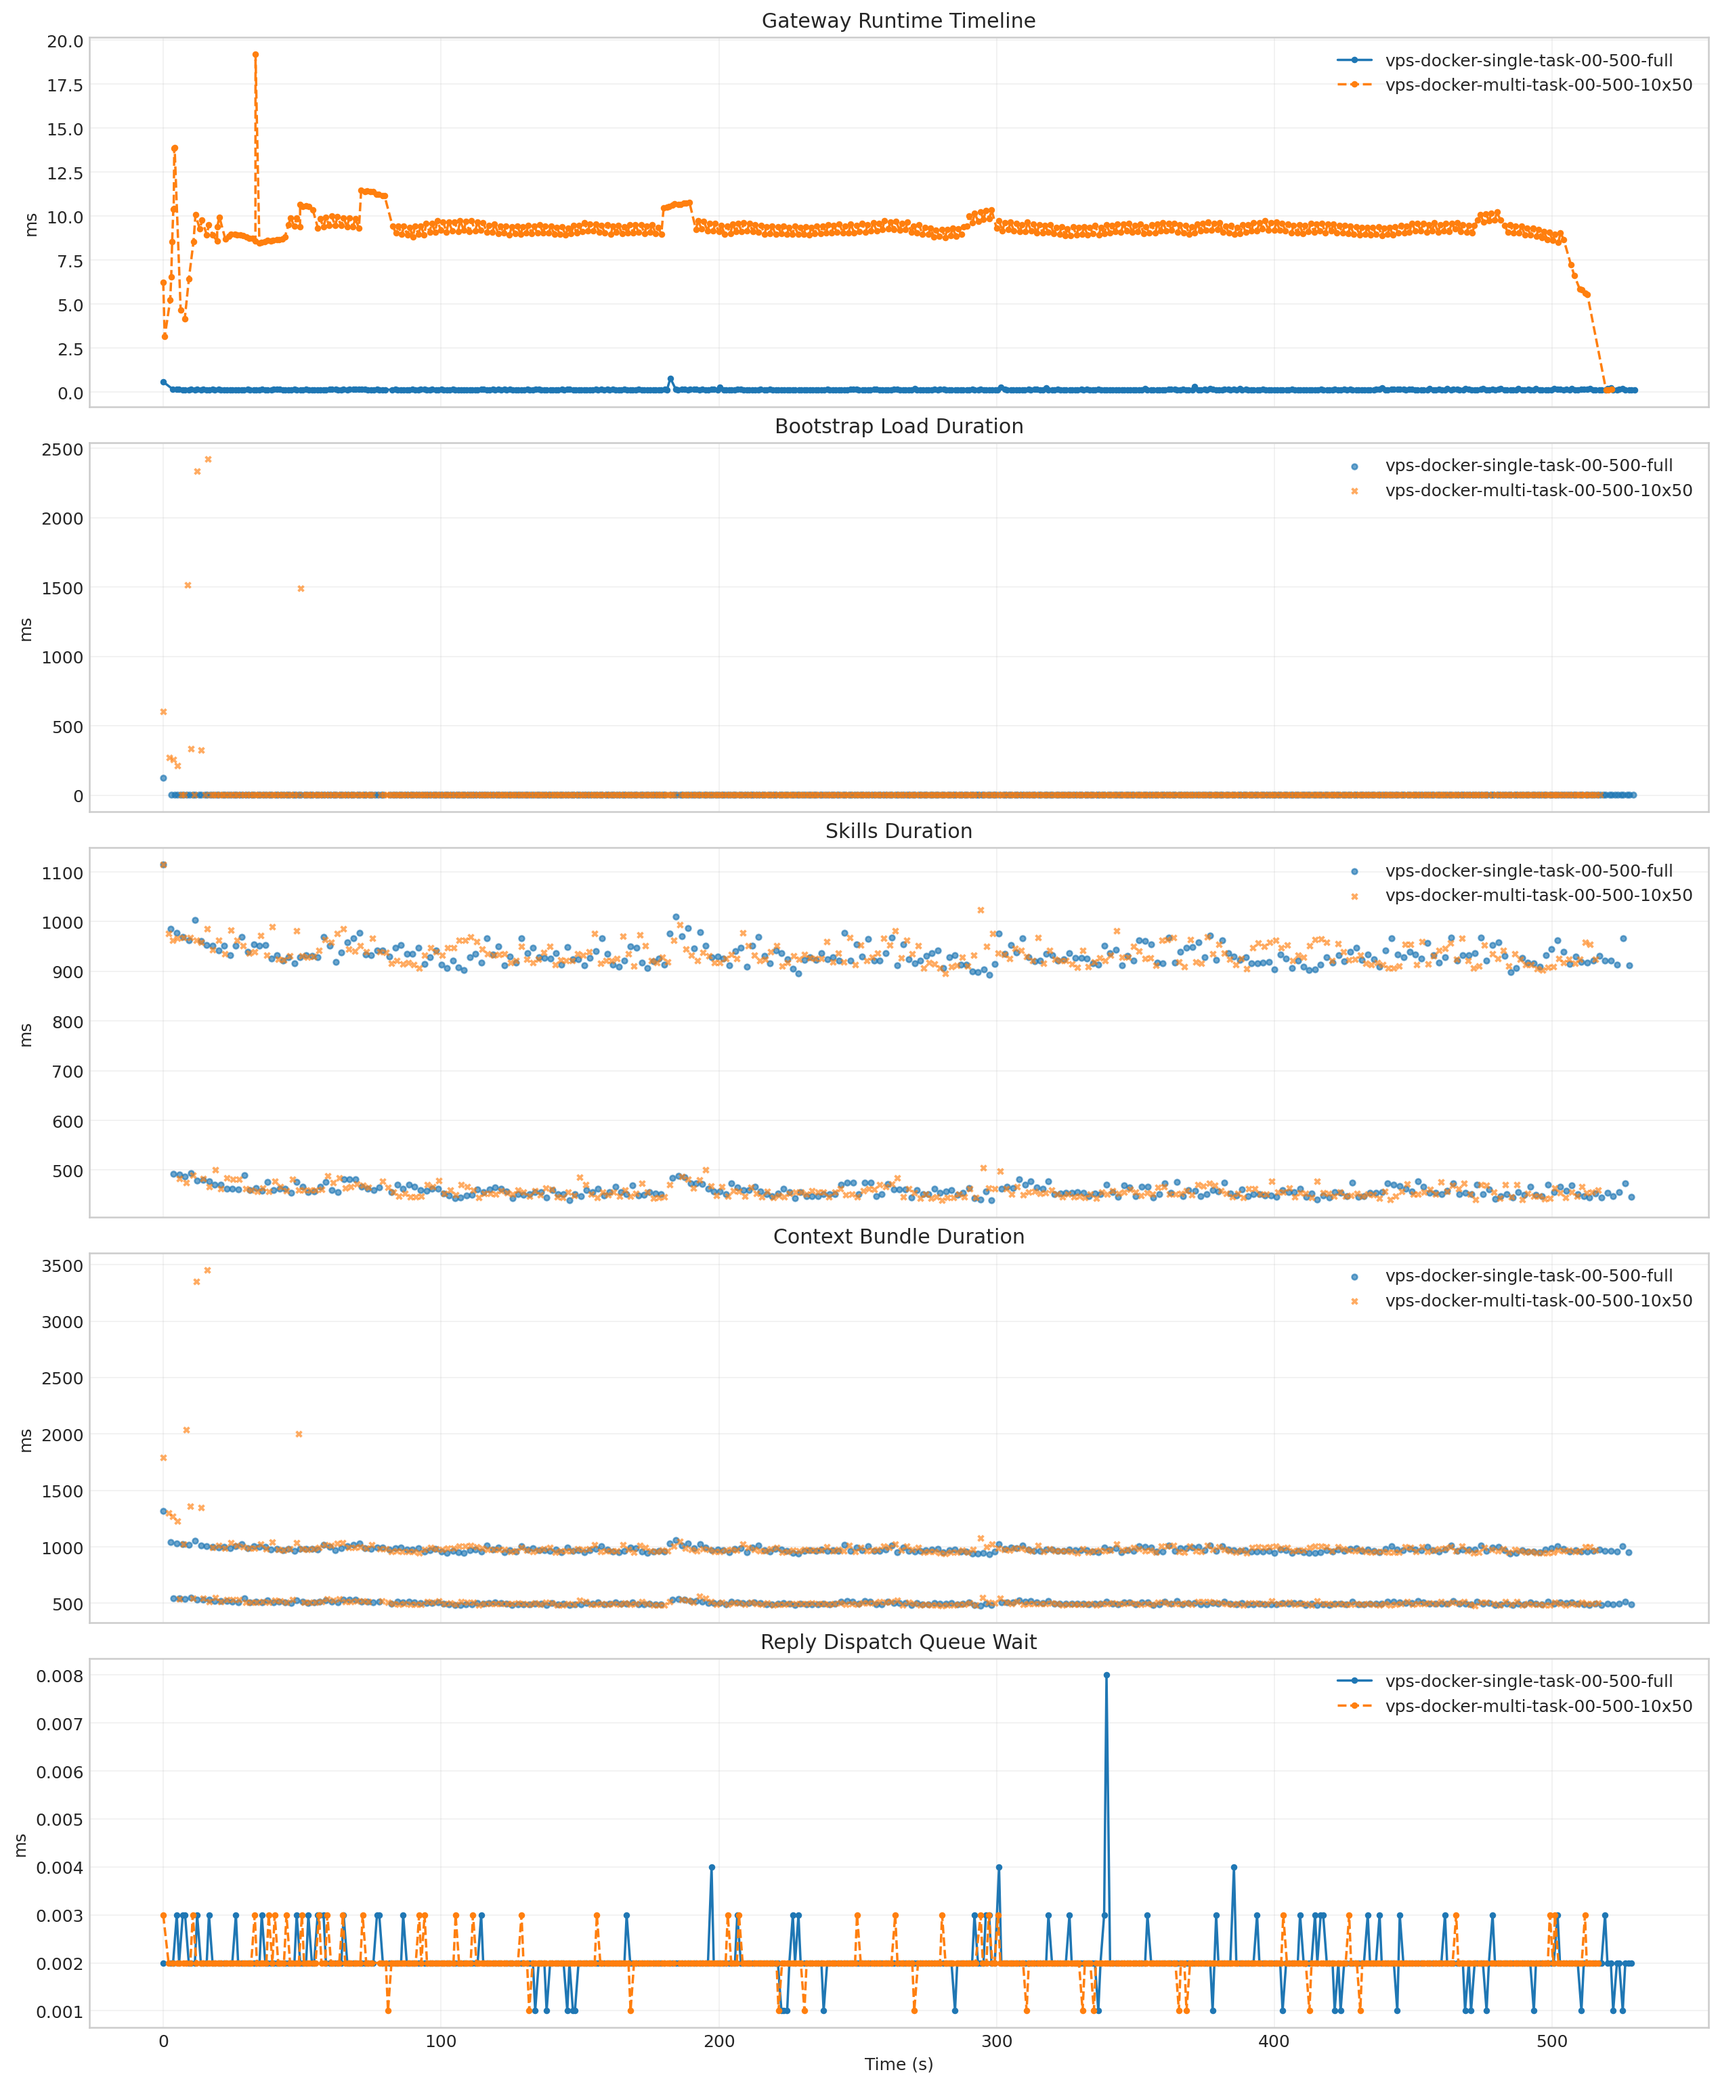
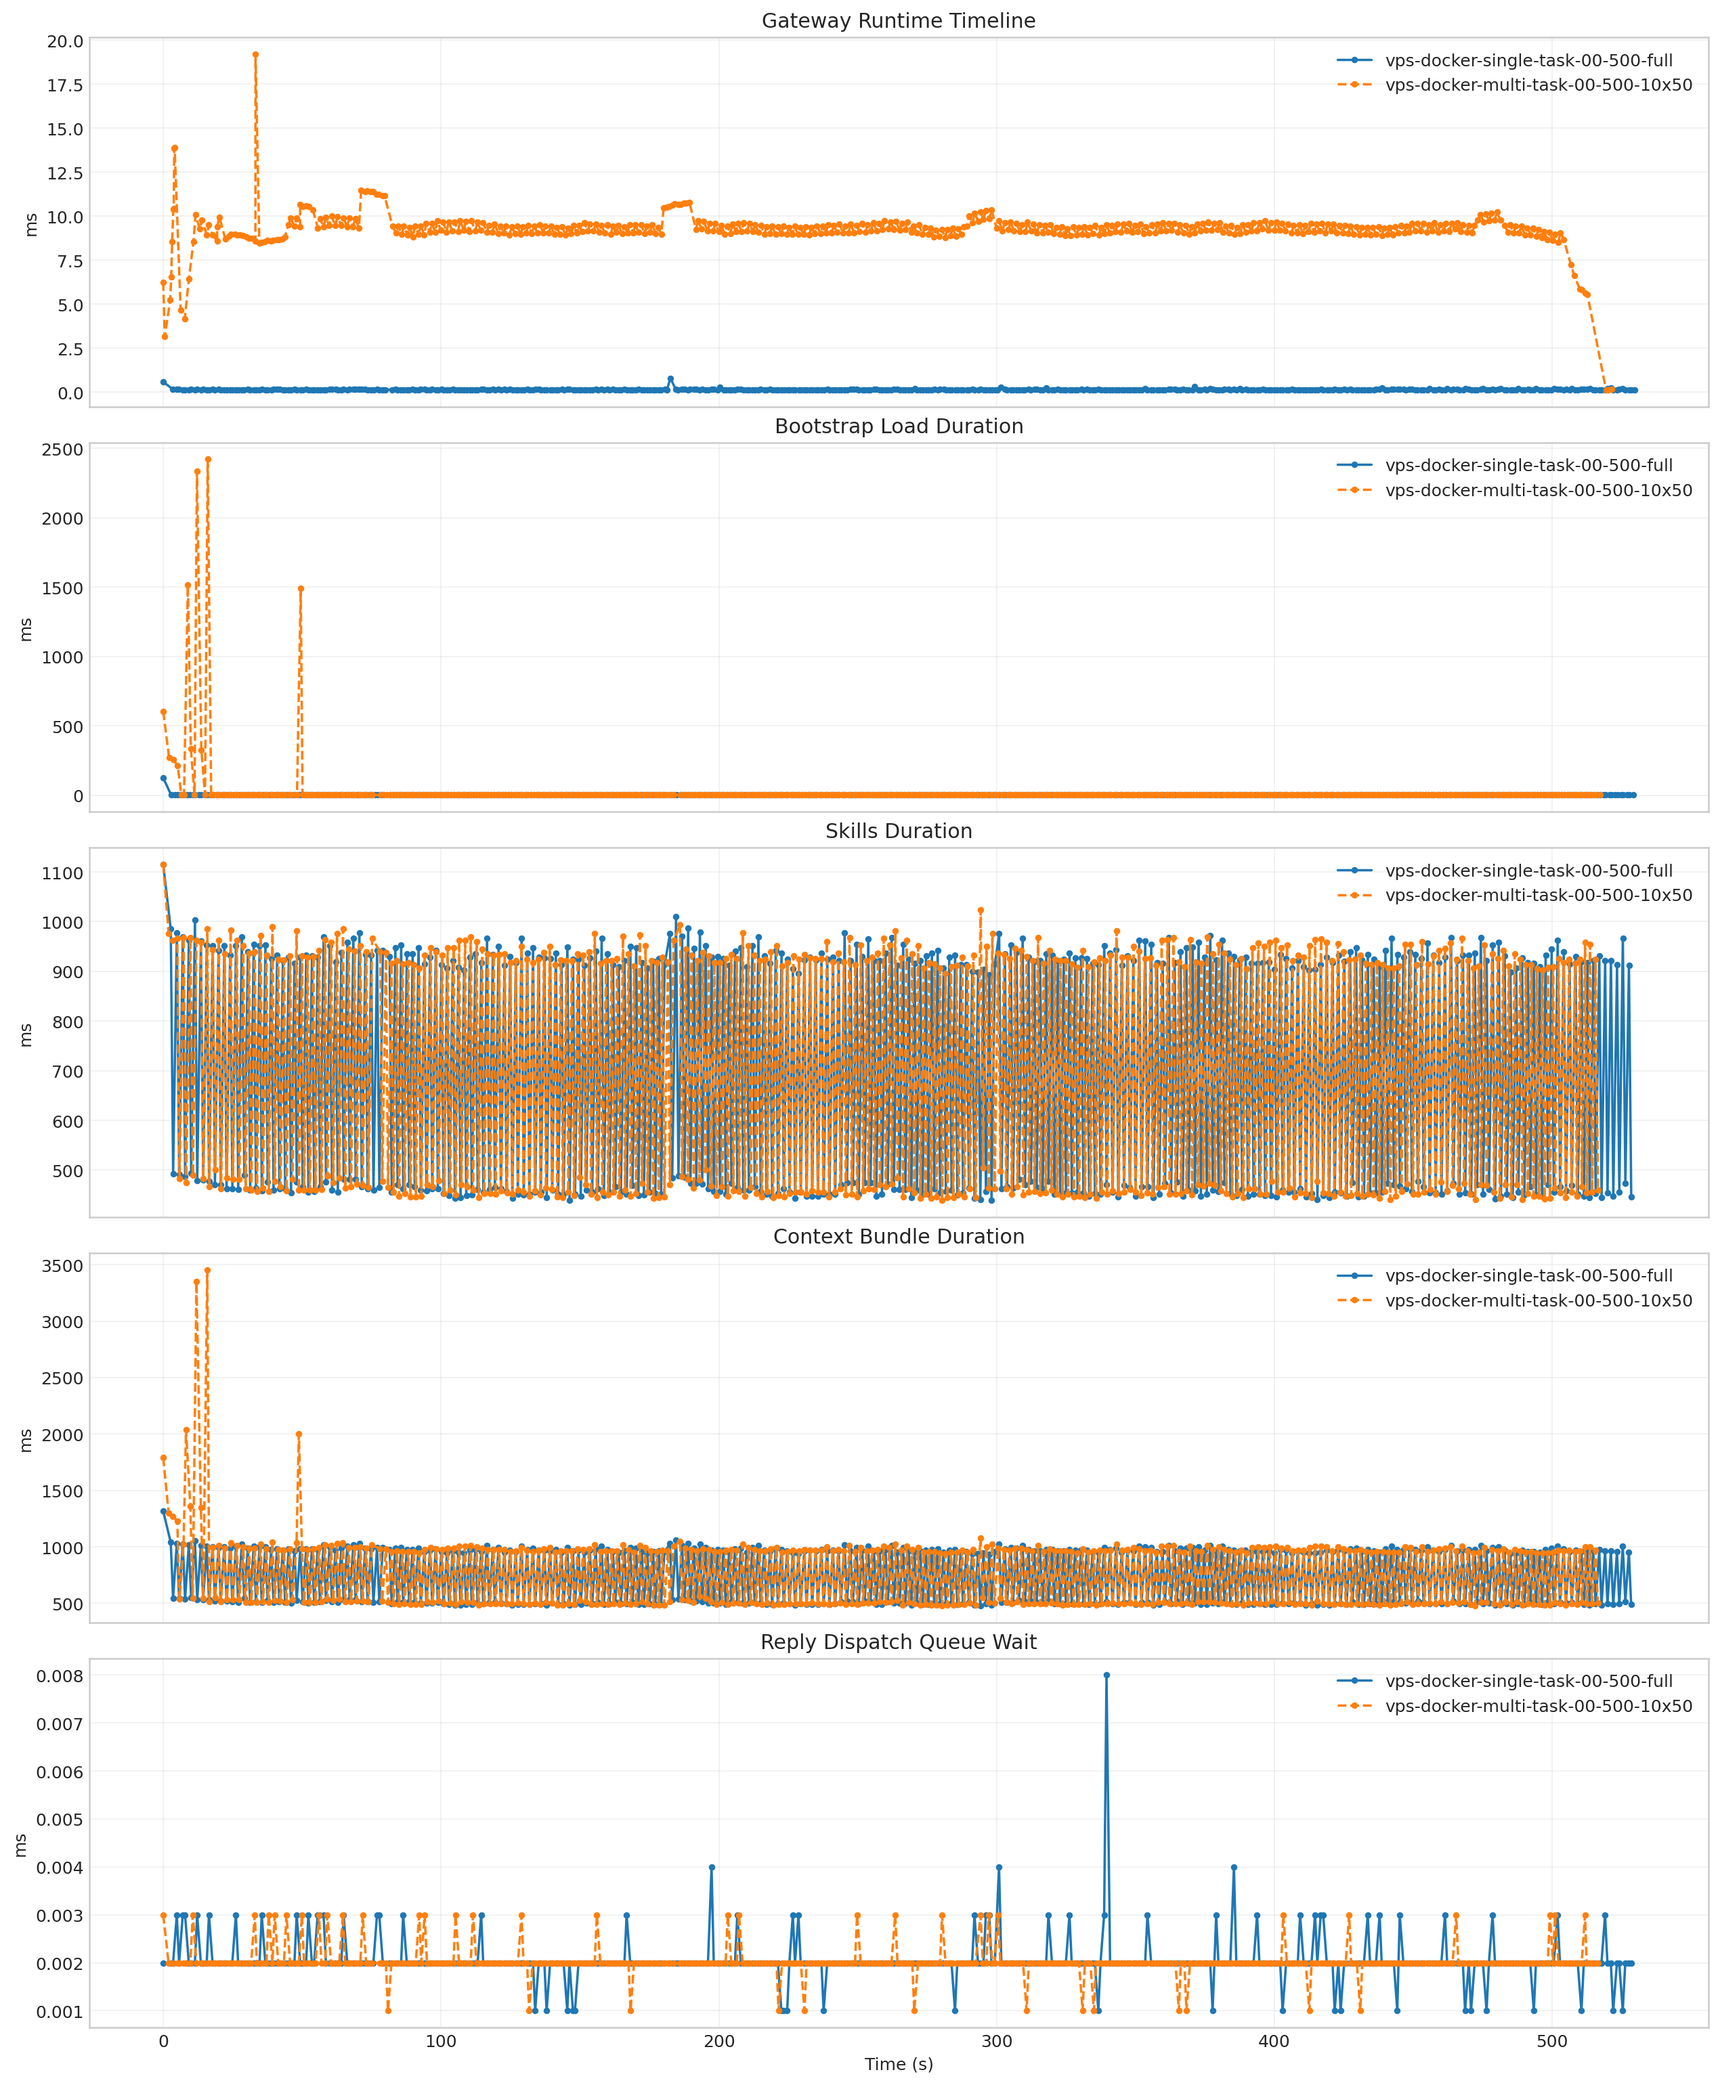
add light version

diff --git a/scripts/export_pair_report.py b/scripts/export_pair_report.py
@@ -714,14 +714,19 @@ def save_dataframe(df: pd.DataFrame, output_path: Path) -> None:
 
 
 def has_dataframe_data(df: pd.DataFrame | None) -> bool:
-    return isinstance(df, pd.DataFrame) and not df.empty and len(df.columns) > 0
+    if not isinstance(df, pd.DataFrame) or df.empty or len(df.columns) == 0:
+        return False
+    numeric_df = df.select_dtypes(include=["number"])
+    return not numeric_df.empty and len(numeric_df.columns) > 0
 
 
 def plot_dataframe(df: pd.DataFrame, title: str, ylabel: str, output_path: Path) -> None:
     if plt is None:
         raise RuntimeError("matplotlib is required to render figures")
+    if not has_dataframe_data(df):
+        return
     fig, ax = plt.subplots(figsize=(10, 5))
-    df.plot(kind="bar", ax=ax, rot=0, title=title)
+    df.select_dtypes(include=["number"]).plot(kind="bar", ax=ax, rot=0, title=title)
     ax.set_ylabel(ylabel)
     ax.set_xlabel("")
     plt.tight_layout()
@@ -1334,21 +1339,18 @@ def build_pair_outputs(
                 {
                     "subtitle": "Bootstrap Load Duration",
                     "ylabel": "ms",
-                    "render_mode": "scatter",
                     "left": time_series_points(left_summary, ["collector_analysis", "gateway_runtime_spans", "time_series", "bootstrap_load_duration_ms"]),
                     "right": time_series_points(right_summary, ["collector_analysis", "gateway_runtime_spans", "time_series", "bootstrap_load_duration_ms"]),
                 },
                 {
                     "subtitle": "Skills Duration",
                     "ylabel": "ms",
-                    "render_mode": "scatter",
                     "left": time_series_points(left_summary, ["collector_analysis", "gateway_runtime_spans", "time_series", "skills_duration_ms"]),
                     "right": time_series_points(right_summary, ["collector_analysis", "gateway_runtime_spans", "time_series", "skills_duration_ms"]),
                 },
                 {
                     "subtitle": "Context Bundle Duration",
                     "ylabel": "ms",
-                    "render_mode": "scatter",
                     "left": time_series_points(left_summary, ["collector_analysis", "gateway_runtime_spans", "time_series", "context_bundle_duration_ms"]),
                     "right": time_series_points(right_summary, ["collector_analysis", "gateway_runtime_spans", "time_series", "context_bundle_duration_ms"]),
                 },

diff --git a/scripts/export_pair_report_light.py b/scripts/export_pair_report_light.py
@@ -1,0 +1,7 @@
+from __future__ import annotations
+
+from export_pair_report import main
+
+
+if __name__ == "__main__":
+    raise SystemExit(main())

diff --git a/res/vps-docker-single-task-00-500-light-vs-vps-docker-multi-task-00-500-light/summary.md b/res/vps-docker-single-task-00-500-light-vs-vps-docker-multi-task-00-500-light/summary.md
@@ -1,0 +1,136 @@
+## `vps-docker-single-task-00-500-light` vs `vps-docker-multi-task-00-500-light`
+
+**Run Dirs**
+
+| scenario | run_dir | requests_total | requests_ok | requests_failed |
+| --- | --- | --- | --- | --- |
+| vps-docker-single-task-00-500-light | /root/client-harness/out/20260326T120941Z_vps-docker-single-task-00-500-light | 500 | 500 | 0 |
+| vps-docker-multi-task-00-500-light | /root/client-harness/out/20260326T121410Z_vps-docker-multi-task-00-500-light | 500 | 500 | 0 |
+
+**Figures**
+
+- ![Latency Overview](figures/latency_overview.png)
+- ![Latency Phase Means](figures/latency_phase_means.png)
+- ![Latency Tail](figures/latency_tail.png)
+- ![Container CPU and Memory](figures/container_cpu_mem.png)
+- ![Latency Timeline](figures/latency_timeline.png)
+- ![CPU Load Timeline](figures/cpu_load_timeline.png)
+- ![Memory Load Timeline](figures/mem_load_timeline.png)
+- ![I/O Load Timeline](figures/io_load_timeline.png)
+- ![Interrupt Timeline](figures/interrupts_timeline.png)
+- ![Context Switch Timeline](figures/context_switch_timeline.png)
+
+**Latency Overview Table**
+
+| scenario | total_mean | total_p50 | total_p95 | total_p99 |
+| --- | --- | --- | --- | --- |
+| vps-docker-single-task-00-500-light | 118.591 | 114.308 | 134.288 | 150.500 |
+| vps-docker-multi-task-00-500-light | 1041.093 | 1004.444 | 1330.842 | 2382.452 |
+
+**Mean Latency by Phase Table**
+
+| scenario | connect | send | wait | history | total |
+| --- | --- | --- | --- | --- | --- |
+| vps-docker-single-task-00-500-light | 72.561 | 0.745 | 107.445 | 10.377 | 118.591 |
+| vps-docker-multi-task-00-500-light | 241.797 | 1.835 | 1033.055 | 6.180 | 1041.093 |
+
+**Tail Latency Table**
+
+| scenario | send_p95 | send_p99 | wait_p50 | wait_p95 | wait_p99 | history_p95 | history_p99 | total_p95 | total_p99 |
+| --- | --- | --- | --- | --- | --- | --- | --- | --- | --- |
+| vps-docker-single-task-00-500-light | 0.750 | 4.595 | 102.208 | 121.738 | 135.285 | 13.970 | 15.463 | 134.288 | 150.500 |
+| vps-docker-multi-task-00-500-light | 1.193 | 34.547 | 998.626 | 1318.619 | 2375.731 | 9.969 | 14.222 | 1330.842 | 2382.452 |
+
+**Container Metrics Table**
+
+| scenario | cpu_percent | mem_percent | block_read_bytes_per_s | block_write_bytes_per_s |
+| --- | --- | --- | --- | --- |
+| vps-docker-single-task-00-500-light | 103.985 | 4.129 | 0.000 | 34661.030 |
+| vps-docker-multi-task-00-500-light | 105.241 | 4.130 | 0.000 | 77629.391 |
+
+**Process Metrics Table**
+
+| scenario | cpu_percent | rss_kib | kb_wr_per_s | iodelay | cswch_per_s | nvcswch_per_s |
+| --- | --- | --- | --- | --- | --- | --- |
+| vps-docker-single-task-00-500-light | 103.271 | 2792252.881 | 575.322 | 0.000 | 307.881 | 3.373 |
+| vps-docker-multi-task-00-500-light | 104.426 | 2793042.000 | 671.481 | 0.000 | 100.167 | 4.204 |
+
+**Disk Metrics Table**
+
+| scenario | busiest_device | pct_util | r_await | w_await | f_await | aqu_sz | wkb_s |
+| --- | --- | --- | --- | --- | --- | --- | --- |
+| vps-docker-single-task-00-500-light | vda | 0.780 | 0.000 | 1.006 | 0.017 | 0.021 | 701.559 |
+| vps-docker-multi-task-00-500-light | vda | 0.830 | 0.000 | 1.016 | 0.037 | 0.021 | 833.778 |
+
+**System Metrics Table**
+
+| scenario | interrupts_per_s | system_context_switches_per_s | run_queue | perf_cache_misses | perf_context_switches | perf_cpu_migrations | perf_page_faults | perf_unsupported_events | strace_events_per_s_peak | strace_duration_ms_per_s_peak | strace_top_syscall | strace_top_syscall_total_duration_sec |
+| --- | --- | --- | --- | --- | --- | --- | --- | --- | --- | --- | --- | --- |
+| vps-docker-single-task-00-500-light | 11841.883 | 15533.217 | 1.333 | - | - | - | - |  | - | - |  | - |
+| vps-docker-multi-task-00-500-light | 11948.291 | 16426.218 | 1.236 | - | - | - | - |  | - | - |  | - |
+
+**Timeline Peaks Table**
+
+| scenario | docker_cpu_peak | docker_cpu_peak_t_sec | docker_mem_peak | docker_mem_peak_t_sec | pidstat_cpu_peak | pidstat_cpu_peak_t_sec | pidstat_rss_peak | pidstat_rss_peak_t_sec | iostat_pct_util_peak | iostat_pct_util_peak_t_sec | iostat_w_await_peak | iostat_w_await_peak_t_sec | vmstat_interrupts_peak | vmstat_interrupts_peak_t_sec | vmstat_context_switches_peak | vmstat_context_switches_peak_t_sec | perf_context_switches_peak | perf_context_switches_peak_t_sec |
+| --- | --- | --- | --- | --- | --- | --- | --- | --- | --- | --- | --- | --- | --- | --- | --- | --- | --- | --- |
+| vps-docker-single-task-00-500-light | 140.700 | 10.090 | 4.240 | 27.747 | 146.000 | 11.000 | 2938192.000 | 11.000 | 1.800 | 34.000 | 7.350 | 34.000 | 23481.000 | 25.000 | 17815.000 | 18.000 | - | - |
+| vps-docker-multi-task-00-500-light | 142.140 | 10.090 | 4.250 | 10.090 | 143.000 | 10.000 | 2865108.000 | 10.000 | 1.700 | 28.000 | 5.820 | 34.000 | 13198.000 | 28.000 | 18682.000 | 38.000 | - | - |
+
+**strace Key Syscalls Table**
+
+| scenario | run_dir | openat_count | openat_total_sec | openat_mean_ms | statx_count | statx_total_sec | statx_mean_ms | newfstatat_count | newfstatat_total_sec | newfstatat_mean_ms | pread64_count | pread64_total_sec | pread64_mean_ms | clone_count | clone_total_sec | clone_mean_ms | sched_yield_count | sched_yield_total_sec | sched_yield_mean_ms | futex_count | futex_total_sec | futex_mean_ms | read_count | read_total_sec | read_mean_ms | write_count | write_total_sec | write_mean_ms | futex_total_sec_per_request | futex_total_sec_per_wall_sec | statx_total_sec_per_request | statx_total_sec_per_wall_sec | openat_total_sec_per_request | openat_total_sec_per_wall_sec | estimated_makespan_sec |
+| --- | --- | --- | --- | --- | --- | --- | --- | --- | --- | --- | --- | --- | --- | --- | --- | --- | --- | --- | --- | --- | --- | --- | --- | --- | --- | --- | --- | --- | --- | --- | --- | --- | --- | --- | --- |
+| vps-docker-single-task-00-500-light | /root/client-harness/out/20260326T120941Z_vps-docker-single-task-00-500-light | - | - | - | - | - | - | - | - | - | - | - | - | - | - | - | - | - | - | - | - | - | - | - | - | - | - | - | - | - | - | - | - | - | 60.968 |
+| vps-docker-multi-task-00-500-light | /root/client-harness/out/20260326T121410Z_vps-docker-multi-task-00-500-light | - | - | - | - | - | - | - | - | - | - | - | - | - | - | - | - | - | - | - | - | - | - | - | - | - | - | - | - | - | - | - | - | - | 55.907 |
+
+**strace Mean Duration Table**
+
+| scenario | vps-docker-single-task-00-500-light | vps-docker-multi-task-00-500-light |
+| --- | --- | --- |
+| openat | - | - |
+| statx | - | - |
+| newfstatat | - | - |
+| pread64 | - | - |
+| clone | - | - |
+| sched_yield | - | - |
+| futex | - | - |
+| read | - | - |
+| write | - | - |
+
+**Gateway Runtime Stage Table**
+
+| scenario | bootstrap_load_mean_ms | skills_mean_ms | context_bundle_mean_ms | execution_admission_wait_mean_ms | reply_dispatch_queue_wait_mean_ms | reply_dispatch_queue_hold_mean_ms | reply_dispatch_pending_mean |
+| --- | --- | --- | --- | --- | --- | --- | --- |
+| vps-docker-single-task-00-500-light | - | - | - | - | - | - | - |
+| vps-docker-multi-task-00-500-light | - | - | - | - | - | - | - |
+
+**Node Focus Groups Table**
+
+| scenario | sessions_lock_total_ms | sessions_lock_count | sessions_dir_enum_total_ms | sessions_dir_enum_count | sessions_json_total_ms | sessions_json_count | sessions_tmp_total_ms | sessions_tmp_count | bootstrap_files_total_ms | bootstrap_files_count |
+| --- | --- | --- | --- | --- | --- | --- | --- | --- | --- | --- |
+| vps-docker-single-task-00-500-light | - | - | - | - | - | - | - | - | - | - |
+| vps-docker-multi-task-00-500-light | - | - | - | - | - | - | - | - | - | - |
+
+**Runtime Category Samples Table**
+
+| scenario | run_dir | sample_count | fs_worker_exec_count | fs_worker_exec_pct | fs_callback_count | fs_callback_pct | event_loop_poll_count | event_loop_poll_pct | microtask_count | microtask_pct | futex_sync_count | futex_sync_pct | worker_message_count | worker_message_pct | json_parse_count | json_parse_pct | libuv_worker_other_count | libuv_worker_other_pct | gateway_main_other_count | gateway_main_other_pct | v8_worker_count | v8_worker_pct | other_count | other_pct |
+| --- | --- | --- | --- | --- | --- | --- | --- | --- | --- | --- | --- | --- | --- | --- | --- | --- | --- | --- | --- | --- | --- | --- | --- | --- |
+| vps-docker-single-task-00-500-light | /root/client-harness/out/20260326T120941Z_vps-docker-single-task-00-500-light | - | - | - | - | - | - | - | - | - | - | - | - | - | - | - | - | - | - | - | - | - | - | - |
+| vps-docker-multi-task-00-500-light | /root/client-harness/out/20260326T121410Z_vps-docker-multi-task-00-500-light | - | - | - | - | - | - | - | - | - | - | - | - | - | - | - | - | - | - | - | - | - | - | - |
+
+**Runtime Category Percent Table**
+
+| scenario | vps-docker-single-task-00-500-light | vps-docker-multi-task-00-500-light |
+| --- | --- | --- |
+| fs_worker_exec | - | - |
+| fs_callback | - | - |
+| event_loop_poll | - | - |
+| microtask | - | - |
+| futex_sync | - | - |
+| worker_message | - | - |
+| json_parse | - | - |
+| libuv_worker_other | - | - |
+| gateway_main_other | - | - |
+| v8_worker | - | - |
+| other | - | - |
+
